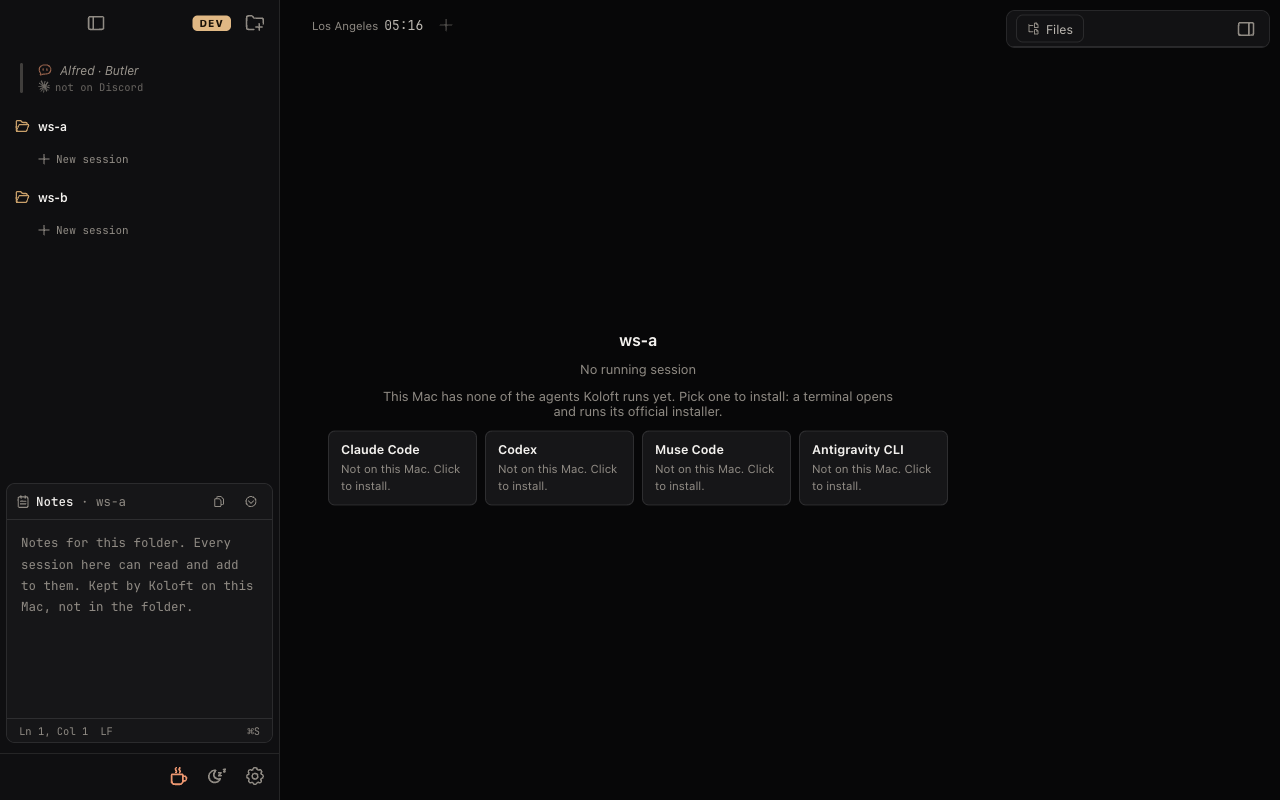
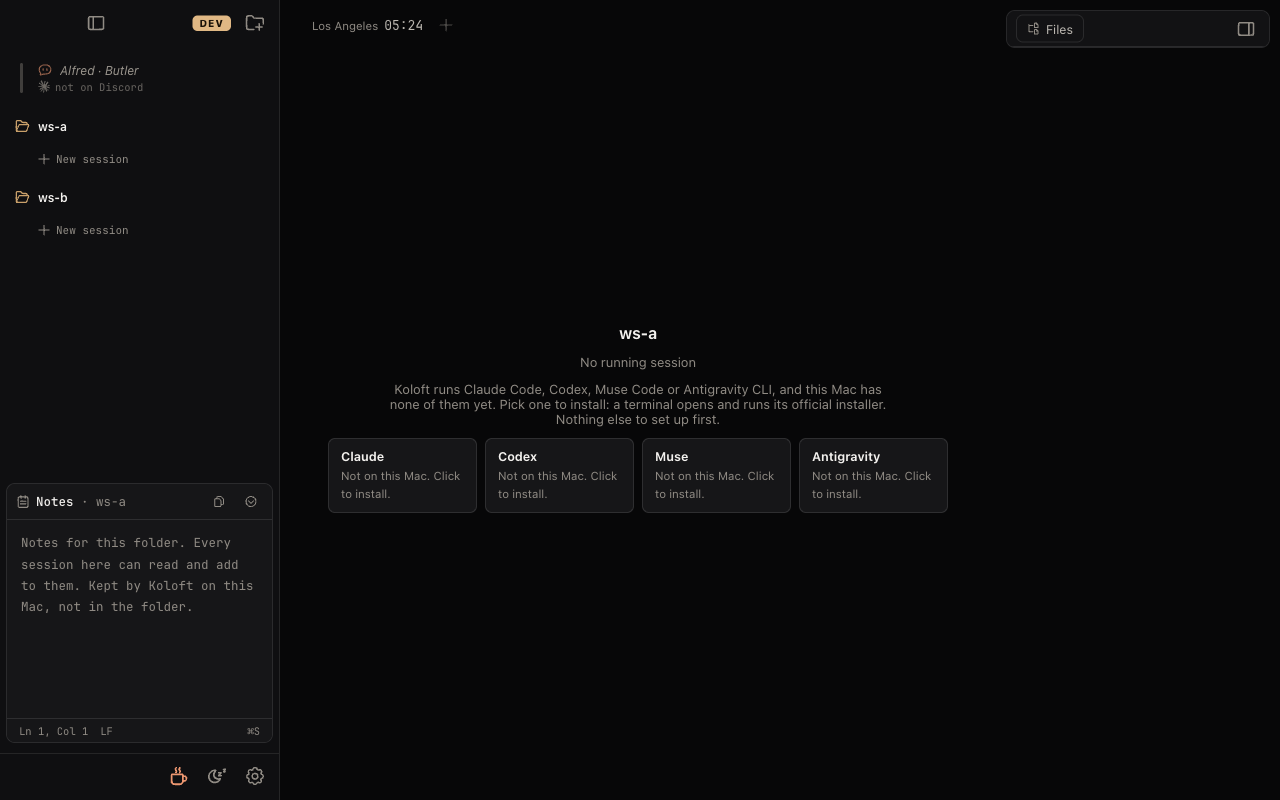
docs(521): mockup fixes from the review against the code

Changed region(s): [[0.3125, 0.4062, 0.7188, 0.625], [0.25, 0.5312, 0.3438, 0.625], [0.375, 0.5625, 0.4688, 0.625]]

diff --git a/notes/521/option-b.dom.html b/notes/521/option-b.dom.html
@@ -1,1 +1,1 @@
-<div class="w-empty" tabindex="-1"><div class="big">ws-a</div><div class="quiet">No running session</div><div class="quiet" style="max-width:520px">This Mac has none of the agents Koloft runs yet. Pick one to install: a terminal opens and runs its official installer.</div><div style="--wl-sans:var(--font);--wl-muted:#a7a29b;--wl-ink:#f6f3ee;color:var(--wl-ink);zoom:0.78"><div class="wl-agents"><div class="wl-agent claude" style=""><div class="wl-agent-mark"><svg stroke="currentColor" fill="currentColor" stroke-width="0" viewBox="0 0 16 16" aria-hidden="true" height="34" width="34" xmlns="http://www.w3.org/2000/svg"><path d="m3.127 10.604 3.135-1.76.053-.153-.053-.085H6.11l-.525-.032-1.791-.048-1.554-.065-1.505-.08-.38-.081L0 7.832l.036-.234.32-.214.455.04 1.009.069 1.513.105 1.097.064 1.626.17h.259l.036-.105-.089-.065-.068-.064-1.566-1.062-1.695-1.121-.887-.646-.48-.327-.243-.306-.104-.67.435-.48.585.04.15.04.593.456 1.267.981 1.654 1.218.242.202.097-.068.012-.049-.109-.181-.9-1.626-.96-1.655-.428-.686-.113-.411a2 2 0 0 1-.068-.484l.496-.674L4.446 0l.662.089.279.242.411.94.666 1.48 1.033 2.014.302.597.162.553.06.17h.105v-.097l.085-1.134.157-1.392.154-1.792.052-.504.25-.605.497-.327.387.186.319.456-.045.294-.19 1.23-.37 1.93-.243 1.29h.142l.161-.16.654-.868 1.097-1.372.484-.545.565-.601.363-.287h.686l.505.751-.226.775-.707.895-.585.759-.839 1.13-.524.904.048.072.125-.012 1.897-.403 1.024-.186 1.223-.21.553.258.06.263-.218.536-1.307.323-1.533.307-2.284.54-.028.02.032.04 1.029.098.44.024h1.077l2.005.15.525.346.315.424-.053.323-.807.411-3.631-.863-.872-.218h-.12v.073l.726.71 1.331 1.202 1.667 1.55.084.383-.214.302-.226-.032-1.464-1.101-.565-.497-1.28-1.077h-.084v.113l.295.432 1.557 2.34.08.718-.112.234-.404.141-.444-.08-.911-1.28-.94-1.44-.759-1.291-.093.053-.448 4.821-.21.246-.484.186-.403-.307-.214-.496.214-.98.258-1.28.21-1.016.19-1.263.112-.42-.008-.028-.092.012-.953 1.307-1.448 1.957-1.146 1.227-.274.109-.477-.247.045-.44.266-.39 1.586-2.018.956-1.25.617-.723-.004-.105h-.036l-4.212 2.736-.75.096-.324-.302.04-.496.154-.162 1.267-.871z"></path></svg></div><div class="wl-agent-name">Claude Code</div><div class="wl-agent-maker">Anthropic</div><div class="wl-agent-state"><span class="wl-faint">Not on this Mac</span><button class="wl-mini">Install</button></div></div><div class="wl-agent codex" style=""><div class="wl-agent-mark"><svg stroke="currentColor" fill="currentColor" stroke-width="0" viewBox="0 0 16 16" aria-hidden="true" height="34" width="34" xmlns="http://www.w3.org/2000/svg"><path d="M14.949 6.547a3.94 3.94 0 0 0-.348-3.273 4.11 4.11 0 0 0-4.4-1.934A4.1 4.1 0 0 0 8.423.2 4.15 4.15 0 0 0 6.305.086a4.1 4.1 0 0 0-1.891.948 4.04 4.04 0 0 0-1.158 1.753 4.1 4.1 0 0 0-1.563.679A4 4 0 0 0 .554 4.72a3.99 3.99 0 0 0 .502 4.731 3.94 3.94 0 0 0 .346 3.274 4.11 4.11 0 0 0 4.402 1.933c.382.425.852.764 1.377.995.526.231 1.095.35 1.67.346 1.78.002 3.358-1.132 3.901-2.804a4.1 4.1 0 0 0 1.563-.68 4 4 0 0 0 1.14-1.253 3.99 3.99 0 0 0-.506-4.716m-6.097 8.406a3.05 3.05 0 0 1-1.945-.694l.096-.054 3.23-1.838a.53.53 0 0 0 .265-.455v-4.49l1.366.778q.02.011.025.035v3.722c-.003 1.653-1.361 2.992-3.037 2.996m-6.53-2.75a2.95 2.95 0 0 1-.36-2.01l.095.057L5.29 12.09a.53.53 0 0 0 .527 0l3.949-2.246v1.555a.05.05 0 0 1-.022.041L6.473 13.3c-1.454.826-3.311.335-4.15-1.098m-.85-6.94A3.02 3.02 0 0 1 3.07 3.949v3.785a.51.51 0 0 0 .262.451l3.93 2.237-1.366.779a.05.05 0 0 1-.048 0L2.585 9.342a2.98 2.98 0 0 1-1.113-4.094zm11.216 2.571L8.747 5.576l1.362-.776a.05.05 0 0 1 .048 0l3.265 1.86a3 3 0 0 1 1.173 1.207 2.96 2.96 0 0 1-.27 3.2 3.05 3.05 0 0 1-1.36.997V8.279a.52.52 0 0 0-.276-.445m1.36-2.015-.097-.057-3.226-1.855a.53.53 0 0 0-.53 0L6.249 6.153V4.598a.04.04 0 0 1 .019-.04L9.533 2.7a3.07 3.07 0 0 1 3.257.139c.474.325.843.778 1.066 1.303.223.526.289 1.103.191 1.664zM5.503 8.575 4.139 7.8a.05.05 0 0 1-.026-.037V4.049c0-.57.166-1.127.476-1.607s.752-.864 1.275-1.105a3.08 3.08 0 0 1 3.234.41l-.096.054-3.23 1.838a.53.53 0 0 0-.265.455zm.742-1.577 1.758-1 1.762 1v2l-1.755 1-1.762-1z"></path></svg></div><div class="wl-agent-name">Codex</div><div class="wl-agent-maker">OpenAI</div><div class="wl-agent-state"><span class="wl-faint">Not on this Mac</span><button class="wl-mini">Install</button></div></div><div class="wl-agent muse" style=""><div class="wl-agent-mark"><svg stroke="currentColor" fill="currentColor" stroke-width="0" viewBox="0 0 16 16" aria-hidden="true" height="34" width="34" xmlns="http://www.w3.org/2000/svg"><path fill-rule="evenodd" d="M8.217 5.243C9.145 3.988 10.171 3 11.483 3 13.96 3 16 6.153 16.001 9.907c0 2.29-.986 3.725-2.757 3.725-1.543 0-2.395-.866-3.924-3.424l-.667-1.123-.118-.197a55 55 0 0 0-.53-.877l-1.178 2.08c-1.673 2.925-2.615 3.541-3.923 3.541C1.086 13.632 0 12.217 0 9.973 0 6.388 1.995 3 4.598 3q.477-.001.924.122c.31.086.611.22.913.407.577.359 1.154.915 1.782 1.714m1.516 2.224q-.378-.615-.727-1.133L9 6.326c.845-1.305 1.543-1.954 2.372-1.954 1.723 0 3.102 2.537 3.102 5.653 0 1.188-.39 1.877-1.195 1.877-.773 0-1.142-.51-2.61-2.87zM4.846 4.756c.725.1 1.385.634 2.34 2.001A212 212 0 0 0 5.551 9.3c-1.357 2.126-1.826 2.603-2.581 2.603-.777 0-1.24-.682-1.24-1.9 0-2.602 1.298-5.264 2.846-5.264q.137 0 .27.018"></path></svg></div><div class="wl-agent-name">Muse Code</div><div class="wl-agent-maker">Meta</div><div class="wl-agent-state"><span class="wl-faint">Not on this Mac</span><button class="wl-mini">Install</button></div></div><div class="wl-agent agy" style=""><div class="wl-agent-mark"><svg stroke="currentColor" fill="currentColor" stroke-width="0" viewBox="0 0 24 24" aria-hidden="true" height="34" width="34" xmlns="http://www.w3.org/2000/svg"><path d="M21.751 22.607c1.34 1.005 3.35.335 1.508-1.508C17.73 15.74 18.904 1 12.037 1 5.17 1 6.342 15.74.815 21.1c-2.01 2.009.167 2.511 1.507 1.506 5.192-3.517 4.857-9.714 9.715-9.714 4.857 0 4.522 6.197 9.714 9.715z"></path></svg></div><div class="wl-agent-name">Antigravity CLI</div><div class="wl-agent-maker">Google</div><div class="wl-agent-state"><span class="wl-faint">Not on this Mac</span><button class="wl-mini">Install</button></div></div></div></div></div>
+<div class="w-empty" tabindex="-1"><div class="big">ws-a</div><div class="quiet">No running session</div><div class="quiet" style="max-width:520px">Koloft runs Claude Code, Codex, Muse Code or Antigravity CLI, and this Mac has none of them yet. Pick one to install: a terminal opens and runs its official installer. Nothing else to set up first.</div><div style="--wl-sans:var(--font);--wl-muted:#a7a29b;--wl-ink:#f6f3ee;color:var(--wl-ink);zoom:0.78"><div class="wl-agents"><div class="wl-agent claude" style=""><div class="wl-agent-mark"><svg stroke="currentColor" fill="currentColor" stroke-width="0" viewBox="0 0 16 16" aria-hidden="true" height="34" width="34" xmlns="http://www.w3.org/2000/svg"><path d="m3.127 10.604 3.135-1.76.053-.153-.053-.085H6.11l-.525-.032-1.791-.048-1.554-.065-1.505-.08-.38-.081L0 7.832l.036-.234.32-.214.455.04 1.009.069 1.513.105 1.097.064 1.626.17h.259l.036-.105-.089-.065-.068-.064-1.566-1.062-1.695-1.121-.887-.646-.48-.327-.243-.306-.104-.67.435-.48.585.04.15.04.593.456 1.267.981 1.654 1.218.242.202.097-.068.012-.049-.109-.181-.9-1.626-.96-1.655-.428-.686-.113-.411a2 2 0 0 1-.068-.484l.496-.674L4.446 0l.662.089.279.242.411.94.666 1.48 1.033 2.014.302.597.162.553.06.17h.105v-.097l.085-1.134.157-1.392.154-1.792.052-.504.25-.605.497-.327.387.186.319.456-.045.294-.19 1.23-.37 1.93-.243 1.29h.142l.161-.16.654-.868 1.097-1.372.484-.545.565-.601.363-.287h.686l.505.751-.226.775-.707.895-.585.759-.839 1.13-.524.904.048.072.125-.012 1.897-.403 1.024-.186 1.223-.21.553.258.06.263-.218.536-1.307.323-1.533.307-2.284.54-.028.02.032.04 1.029.098.44.024h1.077l2.005.15.525.346.315.424-.053.323-.807.411-3.631-.863-.872-.218h-.12v.073l.726.71 1.331 1.202 1.667 1.55.084.383-.214.302-.226-.032-1.464-1.101-.565-.497-1.28-1.077h-.084v.113l.295.432 1.557 2.34.08.718-.112.234-.404.141-.444-.08-.911-1.28-.94-1.44-.759-1.291-.093.053-.448 4.821-.21.246-.484.186-.403-.307-.214-.496.214-.98.258-1.28.21-1.016.19-1.263.112-.42-.008-.028-.092.012-.953 1.307-1.448 1.957-1.146 1.227-.274.109-.477-.247.045-.44.266-.39 1.586-2.018.956-1.25.617-.723-.004-.105h-.036l-4.212 2.736-.75.096-.324-.302.04-.496.154-.162 1.267-.871z"></path></svg></div><div class="wl-agent-name">Claude Code</div><div class="wl-agent-maker">Anthropic</div><div class="wl-agent-state"><span class="wl-faint">Not on this Mac</span><button class="wl-mini">Install</button></div></div><div class="wl-agent codex" style=""><div class="wl-agent-mark"><svg stroke="currentColor" fill="currentColor" stroke-width="0" viewBox="0 0 16 16" aria-hidden="true" height="34" width="34" xmlns="http://www.w3.org/2000/svg"><path d="M14.949 6.547a3.94 3.94 0 0 0-.348-3.273 4.11 4.11 0 0 0-4.4-1.934A4.1 4.1 0 0 0 8.423.2 4.15 4.15 0 0 0 6.305.086a4.1 4.1 0 0 0-1.891.948 4.04 4.04 0 0 0-1.158 1.753 4.1 4.1 0 0 0-1.563.679A4 4 0 0 0 .554 4.72a3.99 3.99 0 0 0 .502 4.731 3.94 3.94 0 0 0 .346 3.274 4.11 4.11 0 0 0 4.402 1.933c.382.425.852.764 1.377.995.526.231 1.095.35 1.67.346 1.78.002 3.358-1.132 3.901-2.804a4.1 4.1 0 0 0 1.563-.68 4 4 0 0 0 1.14-1.253 3.99 3.99 0 0 0-.506-4.716m-6.097 8.406a3.05 3.05 0 0 1-1.945-.694l.096-.054 3.23-1.838a.53.53 0 0 0 .265-.455v-4.49l1.366.778q.02.011.025.035v3.722c-.003 1.653-1.361 2.992-3.037 2.996m-6.53-2.75a2.95 2.95 0 0 1-.36-2.01l.095.057L5.29 12.09a.53.53 0 0 0 .527 0l3.949-2.246v1.555a.05.05 0 0 1-.022.041L6.473 13.3c-1.454.826-3.311.335-4.15-1.098m-.85-6.94A3.02 3.02 0 0 1 3.07 3.949v3.785a.51.51 0 0 0 .262.451l3.93 2.237-1.366.779a.05.05 0 0 1-.048 0L2.585 9.342a2.98 2.98 0 0 1-1.113-4.094zm11.216 2.571L8.747 5.576l1.362-.776a.05.05 0 0 1 .048 0l3.265 1.86a3 3 0 0 1 1.173 1.207 2.96 2.96 0 0 1-.27 3.2 3.05 3.05 0 0 1-1.36.997V8.279a.52.52 0 0 0-.276-.445m1.36-2.015-.097-.057-3.226-1.855a.53.53 0 0 0-.53 0L6.249 6.153V4.598a.04.04 0 0 1 .019-.04L9.533 2.7a3.07 3.07 0 0 1 3.257.139c.474.325.843.778 1.066 1.303.223.526.289 1.103.191 1.664zM5.503 8.575 4.139 7.8a.05.05 0 0 1-.026-.037V4.049c0-.57.166-1.127.476-1.607s.752-.864 1.275-1.105a3.08 3.08 0 0 1 3.234.41l-.096.054-3.23 1.838a.53.53 0 0 0-.265.455zm.742-1.577 1.758-1 1.762 1v2l-1.755 1-1.762-1z"></path></svg></div><div class="wl-agent-name">Codex</div><div class="wl-agent-maker">OpenAI</div><div class="wl-agent-state"><span class="wl-faint">Not on this Mac</span><button class="wl-mini">Install</button></div></div><div class="wl-agent muse" style=""><div class="wl-agent-mark"><svg stroke="currentColor" fill="currentColor" stroke-width="0" viewBox="0 0 16 16" aria-hidden="true" height="34" width="34" xmlns="http://www.w3.org/2000/svg"><path fill-rule="evenodd" d="M8.217 5.243C9.145 3.988 10.171 3 11.483 3 13.96 3 16 6.153 16.001 9.907c0 2.29-.986 3.725-2.757 3.725-1.543 0-2.395-.866-3.924-3.424l-.667-1.123-.118-.197a55 55 0 0 0-.53-.877l-1.178 2.08c-1.673 2.925-2.615 3.541-3.923 3.541C1.086 13.632 0 12.217 0 9.973 0 6.388 1.995 3 4.598 3q.477-.001.924.122c.31.086.611.22.913.407.577.359 1.154.915 1.782 1.714m1.516 2.224q-.378-.615-.727-1.133L9 6.326c.845-1.305 1.543-1.954 2.372-1.954 1.723 0 3.102 2.537 3.102 5.653 0 1.188-.39 1.877-1.195 1.877-.773 0-1.142-.51-2.61-2.87zM4.846 4.756c.725.1 1.385.634 2.34 2.001A212 212 0 0 0 5.551 9.3c-1.357 2.126-1.826 2.603-2.581 2.603-.777 0-1.24-.682-1.24-1.9 0-2.602 1.298-5.264 2.846-5.264q.137 0 .27.018"></path></svg></div><div class="wl-agent-name">Muse Code</div><div class="wl-agent-maker">Meta</div><div class="wl-agent-state"><span class="wl-faint">Not on this Mac</span><button class="wl-mini">Install</button></div></div><div class="wl-agent agy" style=""><div class="wl-agent-mark"><svg stroke="currentColor" fill="currentColor" stroke-width="0" viewBox="0 0 24 24" aria-hidden="true" height="34" width="34" xmlns="http://www.w3.org/2000/svg"><path d="M21.751 22.607c1.34 1.005 3.35.335 1.508-1.508C17.73 15.74 18.904 1 12.037 1 5.17 1 6.342 15.74.815 21.1c-2.01 2.009.167 2.511 1.507 1.506 5.192-3.517 4.857-9.714 9.715-9.714 4.857 0 4.522 6.197 9.714 9.715z"></path></svg></div><div class="wl-agent-name">Antigravity CLI</div><div class="wl-agent-maker">Google</div><div class="wl-agent-state"><span class="wl-faint">Not on this Mac</span><button class="wl-mini">Install</button></div></div></div></div></div>

diff --git a/mockups/521/index.html b/mockups/521/index.html
@@ -29,15 +29,15 @@
 <body>
 <main>
 <h1>#521: install cards on the empty panel when this Mac has no agent</h1>
-<p class="lead">In one line: a folder with no session yet, on a Mac where none of the four agents is installed, today shows a grey button you cannot press. After: it shows four cards, one click each to install.</p>
-<p class="dim">Issue #521. All three pictures are screenshots of the built Koloft, in a test setup where this Mac has no agent. The option pictures were taken by putting the cards into the real panel, styled by the app's own compiled CSS (<code>notes/521/capture.spec.ts</code>).</p>
+<p class="lead">In one line: a folder with no running session, on a Mac where none of the four agents is installed, today shows a grey button you cannot press. After: it shows four cards, one click each to install.</p>
+<p class="dim">Issue #521. Checked against the code by an independent review. All three pictures are screenshots of the built Koloft, in a test setup where this Mac has no agent. The option pictures were taken by putting the cards into the real panel, styled by the app's own compiled CSS (<code>notes/521/capture.spec.ts</code>).</p>
 
 <pre>
 Today:                                  After (option A):
 ┌──────────── ws-a ────────────┐        ┌──────────── ws-a ────────────┐
 │     No running session       │        │     No running session       │
-│   [＋ New session]  ← grey   │        │ This Mac has none of …       │
-│   Claude: Unavailable        │  ──▶   │ [Claude Code][Codex][Muse]…  │
+│   [＋ New session]  ← grey   │        │ Koloft runs … none of them … │
+│   Claude: Unavailable        │  ──▶   │ [Claude][Codex][Muse][Antig…]│
 │  (hover shows "Not           │        │   click one → a terminal tab │
 │   installed")                │        │   installs it → cards go,    │
 └──────────────────────────────┘        │   the button lights up       │
@@ -51,7 +51,13 @@ Today:                                  After (option A):
 </figure>
 
 <h2>Who lands here</h2>
-<p>Screen 1 of the welcome steps has Install buttons. Someone who presses "Skip setup" (or esc), or who removes their agent later, lands on this panel with no way forward.</p>
+<p>Screen 1 of the welcome steps has Install buttons, but many people never reach them:</p>
+<ul>
+  <li>The welcome only opens on a first launch with an empty sidebar (<code>App.tsx:1115-1121</code>). Anyone who already had a folder in Koloft never sees it and lands straight on this panel.</li>
+  <li>Someone who presses "Skip setup" (or esc) on the welcome.</li>
+  <li>Someone who removes their agent later.</li>
+</ul>
+<p>Today their only way to the Install buttons is Settings ▸ Welcome ▸ "Show welcome again" (<code>WelcomePane.tsx:125-133</code>).</p>
 
 <h2>Three options</h2>
 
@@ -59,13 +65,13 @@ Today:                                  After (option A):
 <h3>A. Reuse the small install cards the Koloft Assist dialog already has <span class="tag">recommended</span></h3>
 <figure>
   <img src="option-a.png" alt="Option A">
-  <figcaption>The same cards the Koloft Assist dialog shows when no tool is installed (<code>InstallHint</code>, <code>AssistSetup.tsx:40</code>), with the app's existing <code>.ob-choices</code> / <code>.choice</code> styles. While the cards show, the grey button and the "Claude: Unavailable" line do not.</figcaption>
+  <figcaption>The same component the Koloft Assist dialog shows when no tool is installed (<code>InstallHint</code>, <code>AssistSetup.tsx:40</code>): the same card titles ("Claude", "Codex", "Muse", "Antigravity"), the same sentence above them (<code>AssistSetup.tsx:82</code>), and the app's existing <code>.ob-choices</code> / <code>.choice</code> styles. While the cards show, the grey button and the "Claude: Unavailable" line do not.</figcaption>
 </figure>
 <ul>
-  <li>Click a card: a terminal tab opens, titled e.g. "Install Codex" with a Cancel bar, and runs that agent's official installer (the same path the welcome steps and the Assist dialog use: <code>installTool</code> → <code>openSignInTab</code>).</li>
-  <li>Install worked: the installer exits, the tab closes, the empty panel comes back (main asks for a new check, <code>index.ts:3245</code>), the cards are gone, "＋ New session" is lit.</li>
+  <li>Click a card: a terminal tab opens, titled "Install Codex" (the Assist dialog's titles: "Install Claude", "Install Muse", …) with a Cancel bar, and runs that agent's official installer — the same path the welcome steps and the Assist dialog already use (<code>installTool</code> → <code>openSignInTab</code>).</li>
+  <li>Install worked: the installer exits, the tab closes, the empty panel comes back (main asks for a new check, <code>index.ts:3245</code>), the cards are gone, "＋ New session" is lit. The panel must read the check that stays mounted in <code>App.tsx:377-392</code>, not a fresh one, or the cards would flash back for a moment before the button lights up.</li>
   <li>Install failed: the tab stays with its error (the welcome's T-OB-14 test covers this path); once closed, the cards are still there to try again.</li>
-  <li>Cost: about +20 runtime lines and one e2e case. Small cards, in the same style as the rest of the panel.</li>
+  <li>Cost: about +20 runtime lines (a few of them one CSS rule that keeps the cards from spreading across the whole middle) and one e2e case. Small cards, in the same style as the rest of the panel.</li>
 </ul>
 </div>
 
@@ -93,7 +99,10 @@ Today:                                  After (option A):
   <li>Only when: the chosen folder is on <b>this Mac</b>, Koloft has finished checking this Mac, and <b>none of the four agents is installed</b> — the issue's own words ("no supported tool is installed").</li>
   <li>Not during the short moment the check is still running (the welcome waits for it the same way).</li>
   <li>Once any one agent is installed: the same as today, a working "New … session" button and no cards.</li>
+  <li>The check itself failed: the same as today — the button stays lit and a "Retry" button shows (<code>SessionLaunchButtons.tsx:419-423</code>). No cards, since Koloft does not know what is missing.</li>
+  <li>An agent is installed but turned off in Settings ▸ Sessions: the same as today (grey button). No cards: installing would not help, turning it on would.</li>
 </ul>
+<p class="dim">The rule is the one the Assist dialog already uses: <code>useAssistSetup().noTool</code> with <code>toolsKnown</code> (<code>useAssistSetup.ts:29-34</code>).</p>
 
 <h2>Each kind of session tab</h2>
 <p class="dim">The empty panel shows before any tab exists, so this says what a folder of each kind shows. The four agents are Claude Code, Codex, Muse Code and Antigravity CLI; each runs on this Mac or on another machine over SSH (Secure Shell).</p>
@@ -103,12 +112,12 @@ Today:                                  After (option A):
   <tr><td>Codex</td></tr>
   <tr><td>Muse Code</td></tr>
   <tr><td>Antigravity CLI</td></tr>
-  <tr><td rowspan="4">Remote (SSH)</td><td>Claude Code</td><td rowspan="4">No cards, same as today. A remote folder always offers Claude Code (it runs on that machine, whatever this Mac has: #1282, <code>checkedOnThisMac</code>, <code>sessionBackend.ts:254</code>), so its button is never all grey. Remote Codex, Muse and Antigravity tabs need this Mac's program, so with none installed the remote menu offers only Claude Code — true today, not changed here.</td></tr>
+  <tr><td rowspan="4">Remote (SSH)</td><td>Claude Code</td><td rowspan="4">No cards, same as today. A remote folder always offers Claude Code unless it is turned off in Settings ▸ Sessions (it runs on that machine, whatever this Mac has: #1282, <code>checkedOnThisMac</code>, <code>sessionBackend.ts:254</code>), so its button is not grey. Remote Codex, Muse and Antigravity are offered only when this Mac has them, so with none installed the remote menu offers only Claude Code — true today, not changed here. (For Codex this is because its remote tab runs this Mac's program, CODEX§16; for Muse and Antigravity it is the same gate in the code, not probed.)</td></tr>
   <tr><td>Codex</td></tr>
   <tr><td>Muse Code</td></tr>
   <tr><td>Antigravity CLI</td></tr>
 </table>
-<p>Also: the "No workspace yet" panel (no folder added) gets no cards — a folder comes first, and then the panel above shows. The sidebar's "＋ New session" rows, ⌘N and ⌘P stay as they are.</p>
+<p>Also: the "No workspace yet" panel (no folder added) gets no cards — its "Choose Folder…" works, and then the panel above shows. A folder whose past sessions show under "Recent" on the panel gets the cards too (resuming one would fail the same way without an agent).</p>
 
 <h2>Existing users after the update</h2>
 <p>Anyone with at least one agent installed (nearly every existing user) sees no change. Only a Mac with no agent gets the cards on the empty panel. No setting moves.</p>
@@ -117,6 +126,7 @@ Today:                                  After (option A):
 <ul>
   <li>Cards on a remote folder to install Codex, Muse or Antigravity on this Mac.</li>
   <li>Cards for the missing agents when some are installed (the issue asks only for "none installed").</li>
+  <li>The other ways to start a session — the sidebar's "＋ New session" row, ⌘N and ⌘P — are the same grey button today when nothing is installed (<code>WorkspacePicker.tsx:303-315</code>, <code>CommandPalette.tsx:459-478</code>). They stay as they are: the empty panel with the cards sits right next to them.</li>
 </ul>
 </main>
 </body>

diff --git a/notes/521/option-a.dom.html b/notes/521/option-a.dom.html
@@ -1,1 +1,1 @@
-<div class="w-empty" tabindex="-1"><div class="big">ws-a</div><div class="quiet">No running session</div><div class="quiet" style="max-width:520px">This Mac has none of the agents Koloft runs yet. Pick one to install: a terminal opens and runs its official installer.</div><div class="ob-choices" style="max-width:620px"><button class="choice"><span class="choice-t">Claude Code</span><span class="choice-d">Not on this Mac. Click to install.</span></button><button class="choice"><span class="choice-t">Codex</span><span class="choice-d">Not on this Mac. Click to install.</span></button><button class="choice"><span class="choice-t">Muse Code</span><span class="choice-d">Not on this Mac. Click to install.</span></button><button class="choice"><span class="choice-t">Antigravity CLI</span><span class="choice-d">Not on this Mac. Click to install.</span></button></div></div>
+<div class="w-empty" tabindex="-1"><div class="big">ws-a</div><div class="quiet">No running session</div><div class="quiet" style="max-width:520px">Koloft runs Claude Code, Codex, Muse Code or Antigravity CLI, and this Mac has none of them yet. Pick one to install: a terminal opens and runs its official installer. Nothing else to set up first.</div><div class="ob-choices" style="max-width:620px"><button class="choice"><span class="choice-t">Claude</span><span class="choice-d">Not on this Mac. Click to install.</span></button><button class="choice"><span class="choice-t">Codex</span><span class="choice-d">Not on this Mac. Click to install.</span></button><button class="choice"><span class="choice-t">Muse</span><span class="choice-d">Not on this Mac. Click to install.</span></button><button class="choice"><span class="choice-t">Antigravity</span><span class="choice-d">Not on this Mac. Click to install.</span></button></div></div>

diff --git a/notes/521/capture.spec.ts b/notes/521/capture.spec.ts
@@ -31,10 +31,10 @@ test('capture the welcome cards with no agent on this Mac', async ({ env }) => {
 })
 
 const HINT =
-  'This Mac has none of the agents Koloft runs yet. Pick one to install: a terminal opens and runs its official installer.'
+  'Koloft runs Claude Code, Codex, Muse Code or Antigravity CLI, and this Mac has none of them yet. Pick one to install: a terminal opens and runs its official installer. Nothing else to set up first.'
 
 function variantA(): string {
-  const cards = ['Claude Code', 'Codex', 'Muse Code', 'Antigravity CLI']
+  const cards = ['Claude', 'Codex', 'Muse', 'Antigravity']
     .map(
       (n) =>
         `<button class="choice"><span class="choice-t">${n}</span><span class="choice-d">Not on this Mac. Click to install.</span></button>`
